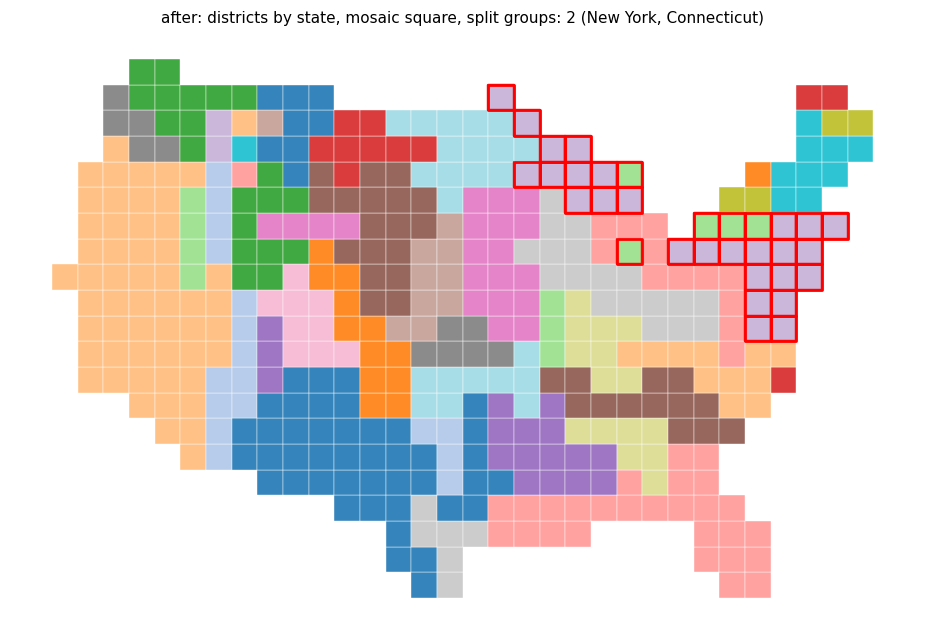
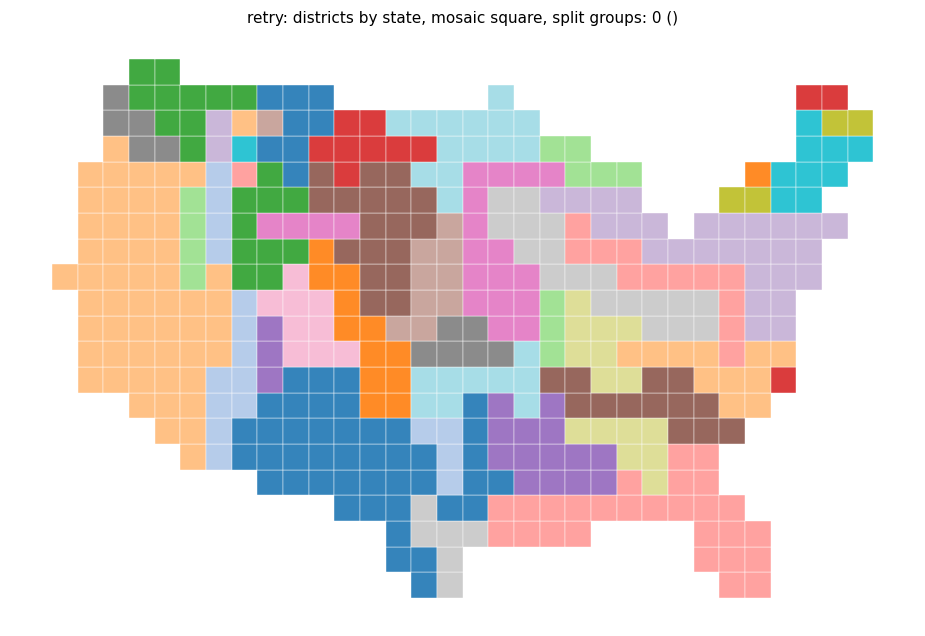
report: repair_contiguity (PR 205) with retry stage

Changed region(s): [[0.4843, 0.1195, 0.9384, 0.5377], [0.1816, 0.0, 0.8173, 0.0597]]

diff --git a/repair-contiguity-search-pr/index.html b/repair-contiguity-search-pr/index.html
@@ -3,7 +3,7 @@
 <head>
 <meta charset="utf-8">
 <meta name="viewport" content="width=device-width, initial-scale=1, viewport-fit=cover">
-<title>PR #205: &quot;repair_contiguity: distance-pruned chain search and satellite repair fixes&quot;</title>
+<title>PR #205: &quot;repair_contiguity: distance-pruned chain search, satellite repair fixes and retries&quot;</title>
 <style>
 
   :root { color-scheme: light dark; }
@@ -74,7 +74,7 @@
 </head>
 <body>
 <a class="back" href="../index.html">&larr; back to index</a>
-<h1>PR #205: &quot;repair_contiguity: distance-pruned chain search and satellite repair fixes&quot;</h1>
+<h1>PR #205: &quot;repair_contiguity: distance-pruned chain search, satellite repair fixes and retries&quot;</h1>
 <dl class="meta-list">
 <dt>Kind</dt><dd>pr</dd>
 <dt>Project</dt><dd>carto-flow</dd>
@@ -89,15 +89,15 @@
 <dt>After</dt><dd>fix-repair-contiguity-191</dd>
 <dt>Inputs</dt><dd>432 congressional districts grouped by state and by division, US states, Texas; mosaic layout, hexagon and square tilings, morph=False unless noted.</dd>
 </dl>
-<p class="desc">The chain search of repair_contiguity enumerates paths only while they can still reach the main body, forbids the tiles of the other satellites correctly, and refuses chains that split another group further.</p>
+<p class="desc">The chain search of repair_contiguity enumerates paths only while they can still reach the main body, forbids the tiles of the other satellites correctly, and refuses chains that split another group further, and retries when split groups block each other.</p>
 <h2>Change</h2>
-<p>Part of #191.</p>
-<ul><li>Speedup (<code>_enumerate_paths</code> in <code>geo_utils/contiguity.py</code>): a backward breadth-first search gives every tile its distance to the main body; the heap is keyed by path length plus that distance, and prefixes that cannot finish within <code>max_len</code> are not pushed. Chains and their order are unchanged.</li><li>Satellite bug: the tiles forbidden to a satellite repair were built from <code>comps[2:]</code>, but satellites are processed in distance order, so a satellite other than <code>comps[1]</code> forbade its own tiles, <code>comps[1]</code> was not forbidden, and the satellite found no path. The set is now built from <code>comps[1:]</code> minus the current satellite&#x27;s tiles.</li><li>Guard: a chain is refused if it increases the number of pieces of any other group, including groups that are already split. Before, only contiguous groups were protected; with the satellite fix a repair could re-split another split group and the next pass undid it (on states with 350 regions and squares, two groups alternated from the second pass on).</li><li>Tests: <code>tests/test_geo_utils_contiguity_search.py</code> (pruned against plain enumeration, a satellite that is not the second largest component, states with 350 regions and squares); changelog entries.</li></ul>
+<p>Fixes #191.</p>
+<ul><li>Speedup (<code>_enumerate_paths</code> in <code>geo_utils/contiguity.py</code>): a backward breadth-first search gives every tile its distance to the main body; the heap is keyed by path length plus that distance, and prefixes that cannot finish within <code>max_len</code> are not pushed. Chains and their order are unchanged.</li><li>Satellite bug: the tiles forbidden to a satellite repair were built from <code>comps[2:]</code>, but satellites are processed in distance order, so a satellite other than <code>comps[1]</code> forbade its own tiles, <code>comps[1]</code> was not forbidden, and the satellite found no path. The set is now built from <code>comps[1:]</code> minus the current satellite&#x27;s tiles.</li><li>Guard: a chain is refused if it increases the number of pieces of any other group, including groups that are already split. Before, only contiguous groups were protected; with the satellite fix a repair could re-split another split group and the next pass undid it (on states with 350 regions and squares, two groups alternated from the second pass on).</li><li>Retries: <code>repair_contiguity</code> has an opt-in <code>retries</code> parameter (default 0; the mosaic layout passes 8). If split groups remain after the normal repair, it repeats the repair from the best state so far with a fixed portfolio: the first retry lets a satellite join any other piece of its group, the later ones run a lookahead pass in several group and satellite orders. A retry is kept only if the total number of extra pieces drops and no group gets more pieces; retries use at least 20 passes.</li><li>Tests: <code>tests/test_geo_utils_contiguity_search.py</code> (pruned against plain enumeration, a satellite that is not the second largest component, states with 350 regions and squares); changelog entries.</li></ul>
 <h2>Split groups and non-contiguous regions, main -&gt; branch</h2>
 <table>
 <tr><th>Input (mosaic)</th><th>Split groups / non-contiguous regions</th></tr>
 <tr><td>Districts by state, hexagon</td><td>1 / 0 -&gt; 0 / 0</td></tr>
-<tr><td>Districts by state, square</td><td>2 / 0 -&gt; 2 / 0 (other groups: PA and NY -&gt; NY and CT)</td></tr>
+<tr><td>Districts by state, square</td><td>2 / 0 -&gt; 0 / 0 (without retries: 2 / 0, groups NY and CT)</td></tr>
 <tr><td>Districts by division, hexagon</td><td>0 / 0 -&gt; 0 / 0</td></tr>
 <tr><td>Districts by division, square</td><td>1 / 0 -&gt; 0 / 0</td></tr>
 <tr><td>States with 150, 300 (morph) and 350 regions, hexagon</td><td>0 / 0 -&gt; 0 / 0</td></tr>
@@ -112,11 +112,11 @@
 <tr><td>Districts by state, square</td><td>10.1 -&gt; 5.6</td></tr>
 <tr><td>Districts by division, hexagon</td><td>6.9 -&gt; 3.9</td></tr>
 </table>
-<p>Chain repair alone on districts by state with hexagons: 3.79 s -&gt; 0.02 s. <code>pytest -k &quot;contiguity or mosaic or voronoi or symbol&quot;</code>: 575 passed.</p>
+<p>Chain repair alone on districts by state with hexagons: 3.79 s -&gt; 0.02 s. Districts by state with squares: mean tile distance +0.24 % (660,409 -&gt; 662,005), time 4.9 s; all other inputs have identical split groups, non-contiguous count and mean distance, and the retries do not run on them. <code>pytest -k &quot;contiguity or mosaic or voronoi or symbol&quot;</code>: 577 passed. The 8-hop probe in <code>TestRingSwapbackReach</code> now asserts that 16 hops strand fewer core tiles than 8 hops and no longer depends on the repair failing.</p>
 <p>Figures (split groups outlined in red):</p>
 <p>!<a href="before_hexagon.png">before, hexagon</a> !<a href="after_hexagon.png">after, hexagon</a> !<a href="before_square.png">before, square</a> !<a href="after_square.png">after, square</a></p>
 <h2>Open</h2>
-<ul><li>Districts by state with squares keeps two split groups. The remaining satellites of groups 29 and 5 are blocked by the contiguous groups 27 and 35 and by each other; 1000 candidate chains give the same result. It needs a move of several groups at once.</li><li>Layout setup time (about 4 s on districts by state with hexagons): tile intersections with the study union about 45 %, tile and geometry adjacency about 26 %. Intersecting only boundary tiles and computing the adjacency once were not tried, because the change is not small.</li></ul>
+<ul><li>Only one real input (districts by state with squares) exercises the retries, and the portfolio order was tuned on it (the third entry closes it); robustness on other inputs is unknown. An exact repartition (mixed-integer program) was too slow as a default.</li><li>Layout setup time (about 4 s on districts by state with hexagons): tile intersections with the study union about 45 %, tile and geometry adjacency about 26 %. Not tried, because the change is not small.</li></ul>
 <div class="figure">
 <img src="after_hexagon.png" alt="after_hexagon.png">
 <p class="caption">after_hexagon.png</p>

diff --git a/index.html b/index.html
@@ -79,7 +79,7 @@
 <table id="toc">
 <thead><tr><th data-col="0" title="Sort by Status">Status</th><th data-col="1" title="Sort by Kind">Kind</th><th data-col="2" title="Sort by Topic">Topic</th><th data-col="3" title="Sort by PR">PR</th><th data-col="4" title="Sort by Title">Title</th><th data-col="5" title="Sort by Description">Description</th><th data-col="6" title="Sort by Created">Created</th><th data-col="7" title="Sort by Closed">Closed</th><th data-col="8" title="Sort by Figures">Figures</th></tr></thead>
 <tbody>
-<tr class="todo" data-ord="0" data-kind="pr" data-project="carto-flow" data-topics=" symbol " data-status="needs review" data-class="todo" data-active="2026-11-01 15:00"><td><span class="status todo">needs review</span></td><td>pr</td><td>symbol</td><td><a href="https://github.com/bright-fakl/carto-flow/pull/205">#205</a></td><td><a href="repair-contiguity-search-pr/index.html">&quot;repair_contiguity: distance-pruned chain search and satellite repair fixes&quot;</a> <span class="meta">(carto-flow)</span></td><td>The chain search of repair_contiguity enumerates paths only while they can still reach the main body, forbids the tiles of the other satellites correctly, and refuses chains that split another group further.</td><td>2026-11-01 15:00</td><td></td><td>4</td></tr>
+<tr class="todo" data-ord="0" data-kind="pr" data-project="carto-flow" data-topics=" symbol " data-status="needs review" data-class="todo" data-active="2026-11-01 15:00"><td><span class="status todo">needs review</span></td><td>pr</td><td>symbol</td><td><a href="https://github.com/bright-fakl/carto-flow/pull/205">#205</a></td><td><a href="repair-contiguity-search-pr/index.html">&quot;repair_contiguity: distance-pruned chain search, satellite repair fixes and retries&quot;</a> <span class="meta">(carto-flow)</span></td><td>The chain search of repair_contiguity enumerates paths only while they can still reach the main body, forbids the tiles of the other satellites correctly, and refuses chains that split another group further, and retries when split groups block each other.</td><td>2026-11-01 15:00</td><td></td><td>4</td></tr>
 <tr class="todo" data-ord="1" data-kind="pr" data-project="carto-flow" data-topics=" symbol " data-status="needs review" data-class="todo" data-active="2026-11-01 13:00"><td><span class="status todo">needs review</span></td><td>pr</td><td>symbol</td><td><a href="https://github.com/bright-fakl/carto-flow/pull/206">#206</a></td><td><a href="grid-island-fix-pr/index.html">&quot;Grid layout: move a separated block of regions to the main group in one step&quot;</a> <span class="meta">(carto-flow)</span></td><td>In the island fix of the grid layout, a block of regions separated from the main group by a one-tile gap moves region by region to the nearest free tile; it now moves one region across the gap, chosen by the smallest cost, and repeats.</td><td>2026-11-01 13:00</td><td></td><td>4</td></tr>
 <tr data-ord="2" data-kind="pr" data-project="carto-flow" data-topics=" symbol " data-status="closed" data-class="done" data-active="2026-11-01 09:00"><td><span class="status done">closed</span></td><td>pr</td><td>symbol</td><td><a href="https://github.com/bright-fakl/carto-flow/pull/204">#204</a></td><td><a href="mosaic-lattice-phase-search-pr/index.html">&quot;Mosaic layout: optional search over lattice phases when calibration misses the tile budget&quot;</a> <span class="meta">(carto-flow)</span></td><td>New option search_lattice_phase for the mosaic layout; when calibration ends more than one core tile above the budget, it tries seven more lattice phases and keeps the one with the smallest excess.</td><td>2026-11-01 09:00</td><td>2026-11-01 00:18</td><td>3</td></tr>
 <tr data-ord="3" data-kind="pr" data-project="carto-flow" data-topics=" infra " data-status="merged" data-class="done" data-active="2026-10-31 23:12"><td><span class="status done">merged</span></td><td>pr</td><td>infra</td><td><a href="https://github.com/bright-fakl/carto-flow/pull/203">#203</a></td><td><a href="external-flow-comparison-pr/index.html">&quot;Reproducible comparison of carto-flow with other flow cartogram tools&quot;</a> <span class="meta">(carto-flow)</span></td><td>Docker-based harness that runs carto-flow, go-cart, R cartogram, cartogramR and Python cartogram on US states and congressional districts and plots measured accuracy against time.</td><td>2026-10-31 21:30</td><td>2026-10-31 23:12</td><td>0</td></tr>

diff --git a/mosaic-lattice-phase-search-pr/index.html b/mosaic-lattice-phase-search-pr/index.html
@@ -81,7 +81,7 @@
 <dt>Topic</dt><dd>symbol</dd>
 <dt>Status</dt><dd><span class="status done">closed</span></dd>
 <dt>Related</dt><dd><a href="../external-flow-comparison-pr/index.html">&quot;Reproducible comparison of carto-flow with other flow cartogram tools&quot;</a> <span class="meta">(pr)</span></dd>
-<dt>Referenced by</dt><dd><a href="../repair-contiguity-search-pr/index.html">&quot;repair_contiguity: distance-pruned chain search and satellite repair fixes&quot;</a> <span class="meta">(pr)</span><br><a href="../grid-island-fix-pr/index.html">&quot;Grid layout: move a separated block of regions to the main group in one step&quot;</a> <span class="meta">(pr)</span></dd>
+<dt>Referenced by</dt><dd><a href="../repair-contiguity-search-pr/index.html">&quot;repair_contiguity: distance-pruned chain search, satellite repair fixes and retries&quot;</a> <span class="meta">(pr)</span><br><a href="../grid-island-fix-pr/index.html">&quot;Grid layout: move a separated block of regions to the main group in one step&quot;</a> <span class="meta">(pr)</span></dd>
 <dt>URL</dt><dd><a href="https://github.com/bright-fakl/carto-flow/pull/204">https://github.com/bright-fakl/carto-flow/pull/204</a></dd>
 <dt>Branch</dt><dd>fix-mosaic-calibration-offsets-192</dd>
 <dt>Base</dt><dd>main</dd>

diff --git a/repair-contiguity-search-pr/summary.md b/repair-contiguity-search-pr/summary.md
@@ -1,7 +1,7 @@
 ---
 pr: 205
-title: "repair_contiguity: distance-pruned chain search and satellite repair fixes"
-description: The chain search of repair_contiguity enumerates paths only while they can still reach the main body, forbids the tiles of the other satellites correctly, and refuses chains that split another group further.
+title: "repair_contiguity: distance-pruned chain search, satellite repair fixes and retries"
+description: The chain search of repair_contiguity enumerates paths only while they can still reach the main body, forbids the tiles of the other satellites correctly, and refuses chains that split another group further, and retries when split groups block each other.
 kind: pr
 topic: symbol
 project: carto-flow
@@ -16,11 +16,12 @@ inputs: 432 congressional districts grouped by state and by division, US states,
 ---
 ## Change
 
-Part of #191.
+Fixes #191.
 
 - Speedup (`_enumerate_paths` in `geo_utils/contiguity.py`): a backward breadth-first search gives every tile its distance to the main body; the heap is keyed by path length plus that distance, and prefixes that cannot finish within `max_len` are not pushed. Chains and their order are unchanged.
 - Satellite bug: the tiles forbidden to a satellite repair were built from `comps[2:]`, but satellites are processed in distance order, so a satellite other than `comps[1]` forbade its own tiles, `comps[1]` was not forbidden, and the satellite found no path. The set is now built from `comps[1:]` minus the current satellite's tiles.
 - Guard: a chain is refused if it increases the number of pieces of any other group, including groups that are already split. Before, only contiguous groups were protected; with the satellite fix a repair could re-split another split group and the next pass undid it (on states with 350 regions and squares, two groups alternated from the second pass on).
+- Retries: `repair_contiguity` has an opt-in `retries` parameter (default 0; the mosaic layout passes 8). If split groups remain after the normal repair, it repeats the repair from the best state so far with a fixed portfolio: the first retry lets a satellite join any other piece of its group, the later ones run a lookahead pass in several group and satellite orders. A retry is kept only if the total number of extra pieces drops and no group gets more pieces; retries use at least 20 passes.
 - Tests: `tests/test_geo_utils_contiguity_search.py` (pruned against plain enumeration, a satellite that is not the second largest component, states with 350 regions and squares); changelog entries.
 
 ## Split groups and non-contiguous regions, main -> branch
@@ -28,7 +29,7 @@ Part of #191.
 | Input (mosaic) | Split groups / non-contiguous regions |
 |---|---|
 | Districts by state, hexagon | 1 / 0 -> 0 / 0 |
-| Districts by state, square | 2 / 0 -> 2 / 0 (other groups: PA and NY -> NY and CT) |
+| Districts by state, square | 2 / 0 -> 0 / 0 (without retries: 2 / 0, groups NY and CT) |
 | Districts by division, hexagon | 0 / 0 -> 0 / 0 |
 | Districts by division, square | 1 / 0 -> 0 / 0 |
 | States with 150, 300 (morph) and 350 regions, hexagon | 0 / 0 -> 0 / 0 |
@@ -45,7 +46,7 @@ With the satellite fix alone, states with 350 regions and squares got worse (2) 
 | Districts by state, square | 10.1 -> 5.6 |
 | Districts by division, hexagon | 6.9 -> 3.9 |
 
-Chain repair alone on districts by state with hexagons: 3.79 s -> 0.02 s. `pytest -k "contiguity or mosaic or voronoi or symbol"`: 575 passed.
+Chain repair alone on districts by state with hexagons: 3.79 s -> 0.02 s. Districts by state with squares: mean tile distance +0.24 % (660,409 -> 662,005), time 4.9 s; all other inputs have identical split groups, non-contiguous count and mean distance, and the retries do not run on them. `pytest -k "contiguity or mosaic or voronoi or symbol"`: 577 passed. The 8-hop probe in `TestRingSwapbackReach` now asserts that 16 hops strand fewer core tiles than 8 hops and no longer depends on the repair failing.
 
 Figures (split groups outlined in red):
 
@@ -56,5 +57,5 @@ Figures (split groups outlined in red):
 
 ## Open
 
-- Districts by state with squares keeps two split groups. The remaining satellites of groups 29 and 5 are blocked by the contiguous groups 27 and 35 and by each other; 1000 candidate chains give the same result. It needs a move of several groups at once.
-- Layout setup time (about 4 s on districts by state with hexagons): tile intersections with the study union about 45 %, tile and geometry adjacency about 26 %. Intersecting only boundary tiles and computing the adjacency once were not tried, because the change is not small.
+- Only one real input (districts by state with squares) exercises the retries, and the portfolio order was tuned on it (the third entry closes it); robustness on other inputs is unknown. An exact repartition (mixed-integer program) was too slow as a default.
+- Layout setup time (about 4 s on districts by state with hexagons): tile intersections with the study union about 45 %, tile and geometry adjacency about 26 %. Not tried, because the change is not small.
